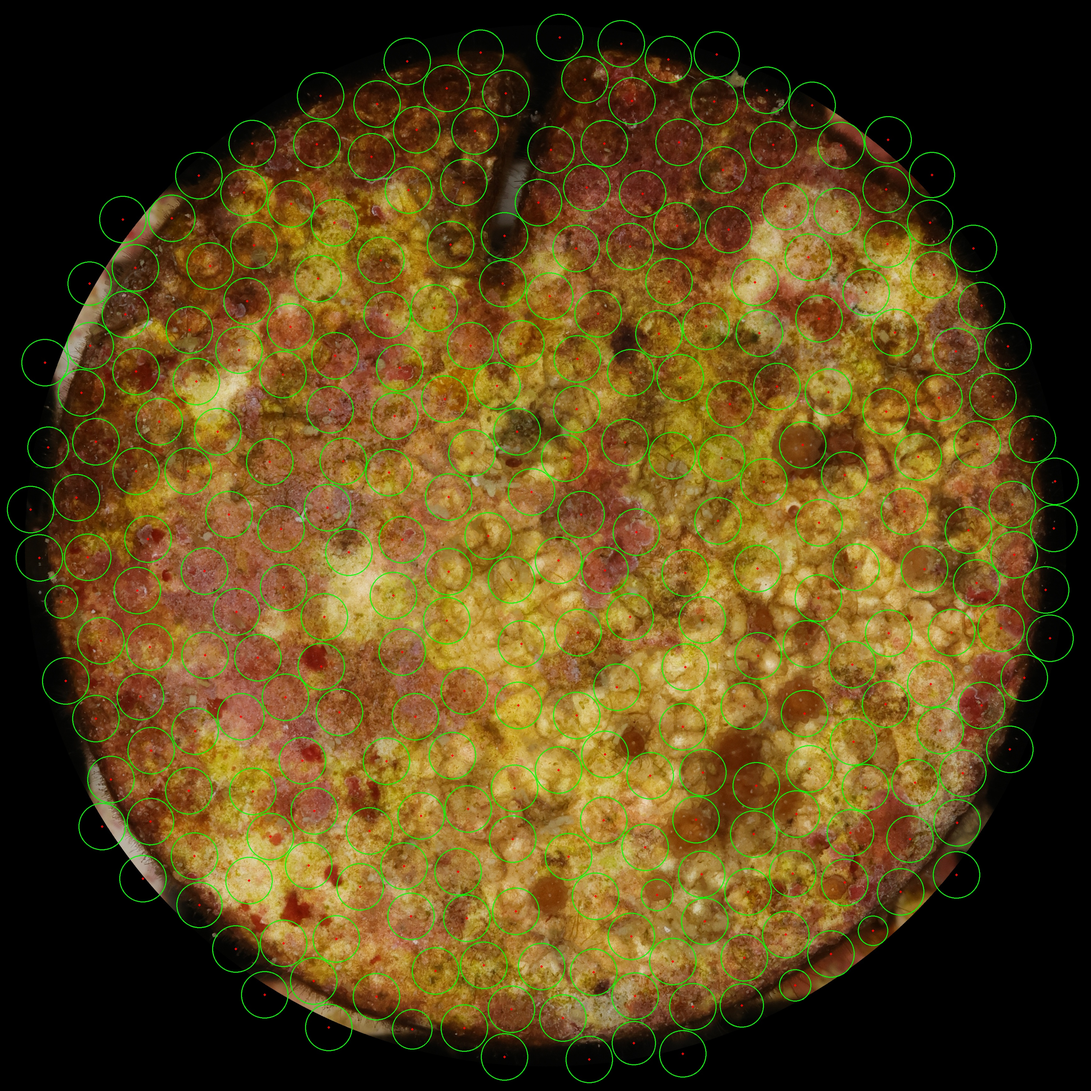
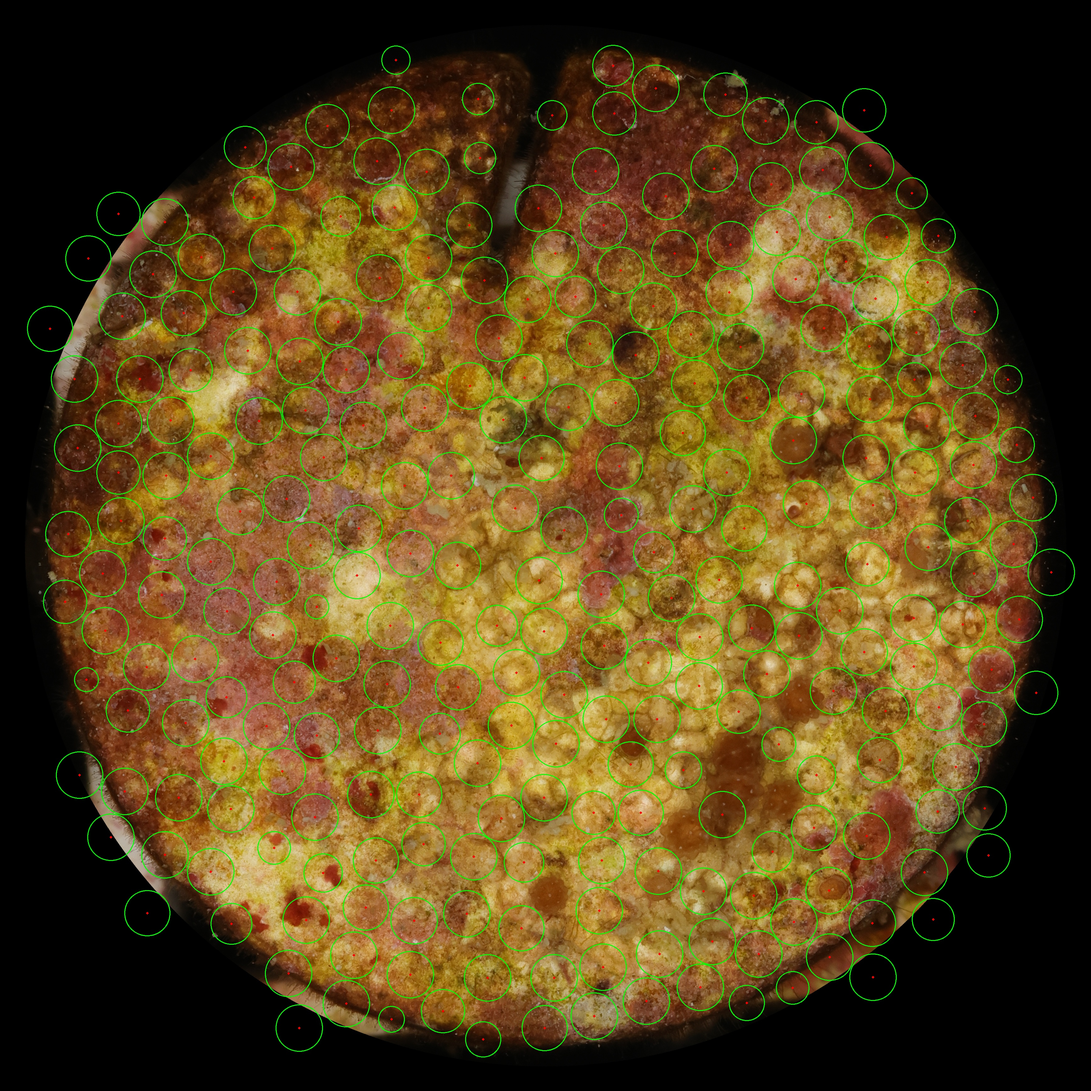
hough

Changed region(s): [[0.0311, 0.0311, 0.9942, 0.9632]]

diff --git a/Hough.py b/Hough.py
@@ -20,7 +20,7 @@ def hough_circles(edge_image, overlay_image, dp=2, min_dist=150, param1=50, para
 def main():
     for i in range (1, 7):
         image = cv.imread(f"CoralBabies/{i}.JPG")
-        edge_image = cv.imread(f"LaplaceOutput/laplace{i}.JPG", cv.IMREAD_GRAYSCALE)
+        edge_image = cv.imread(f"SobelOutput/sobel{i}.JPG", cv.IMREAD_GRAYSCALE)
 
         hough_circles_image = hough_circles(edge_image, image)
 

diff --git a/Canny.py b/Canny.py
@@ -2,7 +2,8 @@ import cv2 as cv
 
 #Turnes the input image into graycale and applies canny dection with hysteresis parameters
 def canny(image, candidateEdge=10, confirmedEdge=18):
-    return cv.Canny(image, candidateEdge, confirmedEdge)
+    canny = cv.Canny(image, candidateEdge, confirmedEdge)
+    return cv.convertScaleAbs(canny)
 
 def main():
     for i in range (1, 7):

diff --git a/Sobel.py b/Sobel.py
@@ -4,7 +4,8 @@ import cv2 as cv
 def sobel(image, kernel_size=3):
     sobel_x = cv.Sobel(image, cv.CV_64F, 1, 0, ksize=kernel_size)
     sobel_y = cv.Sobel(image, cv.CV_64F, 0, 1, ksize=kernel_size)
-    return cv.magnitude(sobel_x, sobel_y)
+    magnitude = cv.magnitude(sobel_x, sobel_y)
+    return cv.convertScaleAbs(magnitude)
 
 def main():
     for i in range (1, 7):
